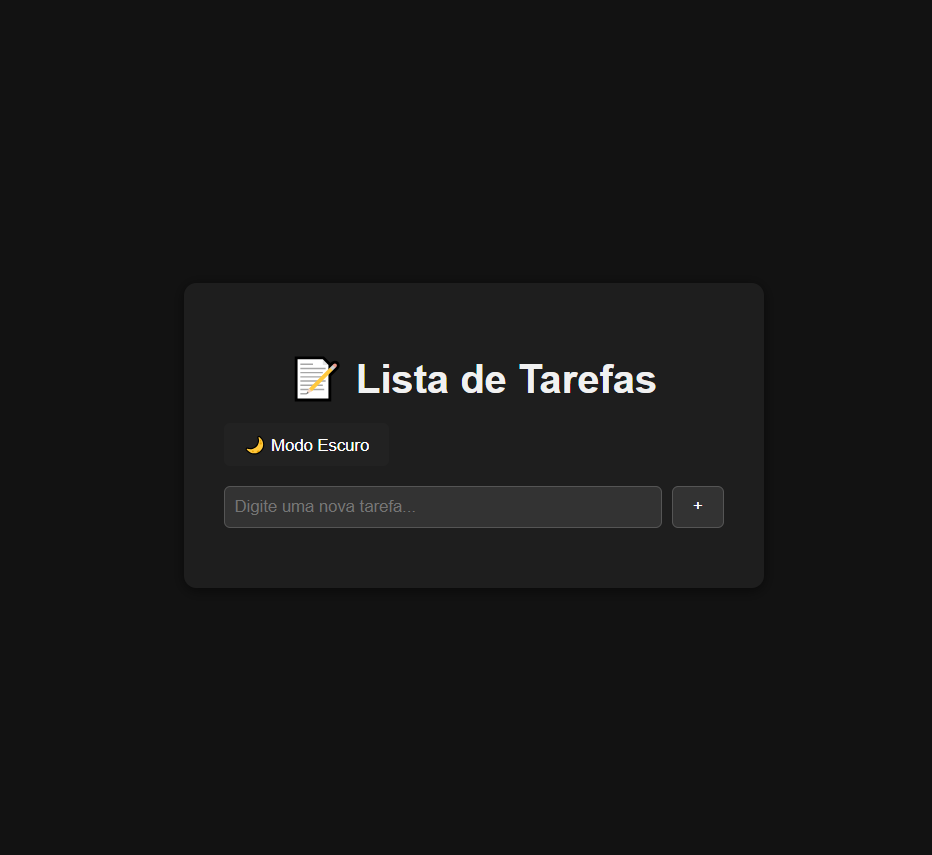
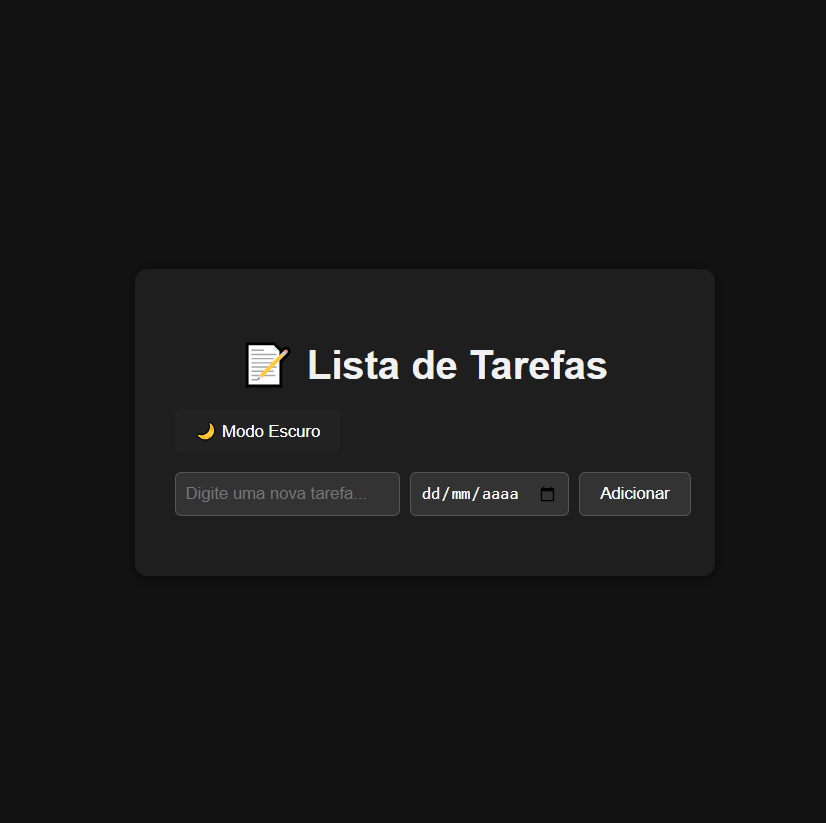
Colocando data e modo permanente

diff --git a/script.js b/script.js
@@ -1,19 +1,30 @@
 // Referência aos elementos HTML
 const taskInput = document.getElementById("task-input");
 const taskList = document.getElementById("task-list");
+const taskDate = document.getElementById("task-date");
+
+
 
 // Carrega tarefas armazenadas ao iniciar a aplicação
 function loadTasks() {
   // Recupera os dados do localStorage (ou lista vazia)
   const tasks = JSON.parse(localStorage.getItem("tasks")) || [];
-
+  // Recupera o darkmode pelo localStorage
+  if (localStorage.getItem("darkMode") === "enabled") {
+  document.body.classList.add("dark");
+}
   // Para cada tarefa, adiciona à interface
-  tasks.forEach(task => addTaskToDOM(task.text, task.completed));
+  tasks.forEach(task => addTaskToDOM(task.text, task.completed, task.date));
+
 }
 
 // Ativa/desativa dark mode
 document.getElementById("toggle-dark").addEventListener("click", () => {
   document.body.classList.toggle("dark");
+
+  // Salva preferência no localStorage
+  const isDark = document.body.classList.contains("dark");
+  localStorage.setItem("darkMode", isDark ? "enabled" : "disabled");
 });
 
 // Permite adicionar a tarefa pressionando Enter
@@ -25,64 +36,85 @@ taskInput.addEventListener("keydown", (e) => {
 
 // Adiciona nova tarefa quando o botão é clicado
 function addTask() {
-  const text = taskInput.value.trim(); // Remove espaços em branco
+  const text = taskInput.value.trim();
+  
+  const date = taskDate.value; // Formato YYYY-MM-DD
 
-  if (text === "") return; // Evita adicionar tarefas vazias
+  if (text === "") return;
 
-  addTaskToDOM(text);      // Adiciona visualmente
-  saveTask(text);          // Salva no armazenamento local
-  taskInput.value = "";    // Limpa o campo de entrada
+  addTaskToDOM(text, false, date);
+  saveTask(text, date);
+  taskInput.value = "";
+  taskDate.value = "";
+}
+
+function formatDateBR(isoDate) {
+  if (!isoDate) return "";
+  const [year, month, day] = isoDate.split("-");
+  return `${day}/${month}/${year.slice(2)}`;
 }
 
 // Cria visualmente um novo item na lista
-function addTaskToDOM(text, completed = false) {
+function addTaskToDOM(text, completed = false, date = "") {
   const li = document.createElement("li");
-  li.textContent = text;
 
-  if (completed) li.classList.add("completed"); // Aplica estilo de concluído
+  const span = document.createElement("span");
+  span.textContent = text;
 
-  // Alterna entre tarefa concluída ou não ao clicar
+  // Exibe a data, se houver
+  if (date && date !== "") {
+    const small = document.createElement("small");
+    small.textContent = ` (📅 ${formatDateBR(date)})`;
+    span.appendChild(small);
+  }
+
+  if (completed) li.classList.add("completed");
+
+  li.appendChild(span);
+
   li.addEventListener("click", () => {
     li.classList.toggle("completed");
     updateLocalStorage();
   });
 
-  // Botão de deletar tarefa
   const deleteBtn = document.createElement("button");
   deleteBtn.textContent = "🗑";
-
-  // Ao clicar no botão, remove o item
   deleteBtn.onclick = (e) => {
-    e.stopPropagation(); // Evita marcar como concluída ao apagar
-    li.remove();         // Remove da interface
+    e.stopPropagation();
+    li.remove();
     updateLocalStorage();
   };
 
-  li.appendChild(deleteBtn);  // Adiciona botão ao item
-  taskList.appendChild(li);   // Adiciona item à lista
+  li.appendChild(deleteBtn);
+  taskList.appendChild(li);
 }
 
+
 // Salva nova tarefa no localStorage
-function saveTask(text) {
+function saveTask(text, date) {
   const tasks = JSON.parse(localStorage.getItem("tasks")) || [];
-  tasks.push({ text, completed: false });
+  tasks.push({ text, completed: false, date });
   localStorage.setItem("tasks", JSON.stringify(tasks));
 }
 
-// Atualiza o localStorage com o estado atual da lista
 function updateLocalStorage() {
   const tasks = [];
 
-  // Para cada item visual, extrai texto e status
   document.querySelectorAll("li").forEach(li => {
+    const span = li.querySelector("span");
+    const dateText = span.querySelector("small")?.textContent || "";
+    const date = dateText.match(/\d{4}-\d{2}-\d{2}/)?.[0] || "";
+
     tasks.push({
-      text: li.firstChild.textContent,
-      completed: li.classList.contains("completed")
+      text: span.firstChild.textContent,
+      completed: li.classList.contains("completed"),
+      date
     });
   });
 
   localStorage.setItem("tasks", JSON.stringify(tasks));
 }
+
 
 // Executa ao carregar a página
 loadTasks();

diff --git a/main.html b/main.html
@@ -14,7 +14,8 @@
     <!-- Área de entrada de dados -->
     <div class="input-container">
       <input type="text" id="task-input" placeholder="Digite uma nova tarefa..." />
-      <button onclick="addTask()">+</button>
+      <input type="date" id="task-date" />
+      <button onclick="addTask()">Adicionar</button>
     </div>
 
     <!-- Lista de tarefas -->

diff --git a/style.css b/style.css
@@ -78,6 +78,18 @@ input[type="text"] {
   border-radius: 5px;
 }
 
+input[type="date"] {
+  padding: 0.5rem;
+  border: 1px solid #ccc;
+  border-radius: 5px;
+}
+
+body.dark input[type="date"] {
+  background: #333;
+  color: white;
+  border: 1px solid #555;
+}
+
 /* Botão de adicionar tarefa */
 button {
   padding: 0.5rem 1rem;
